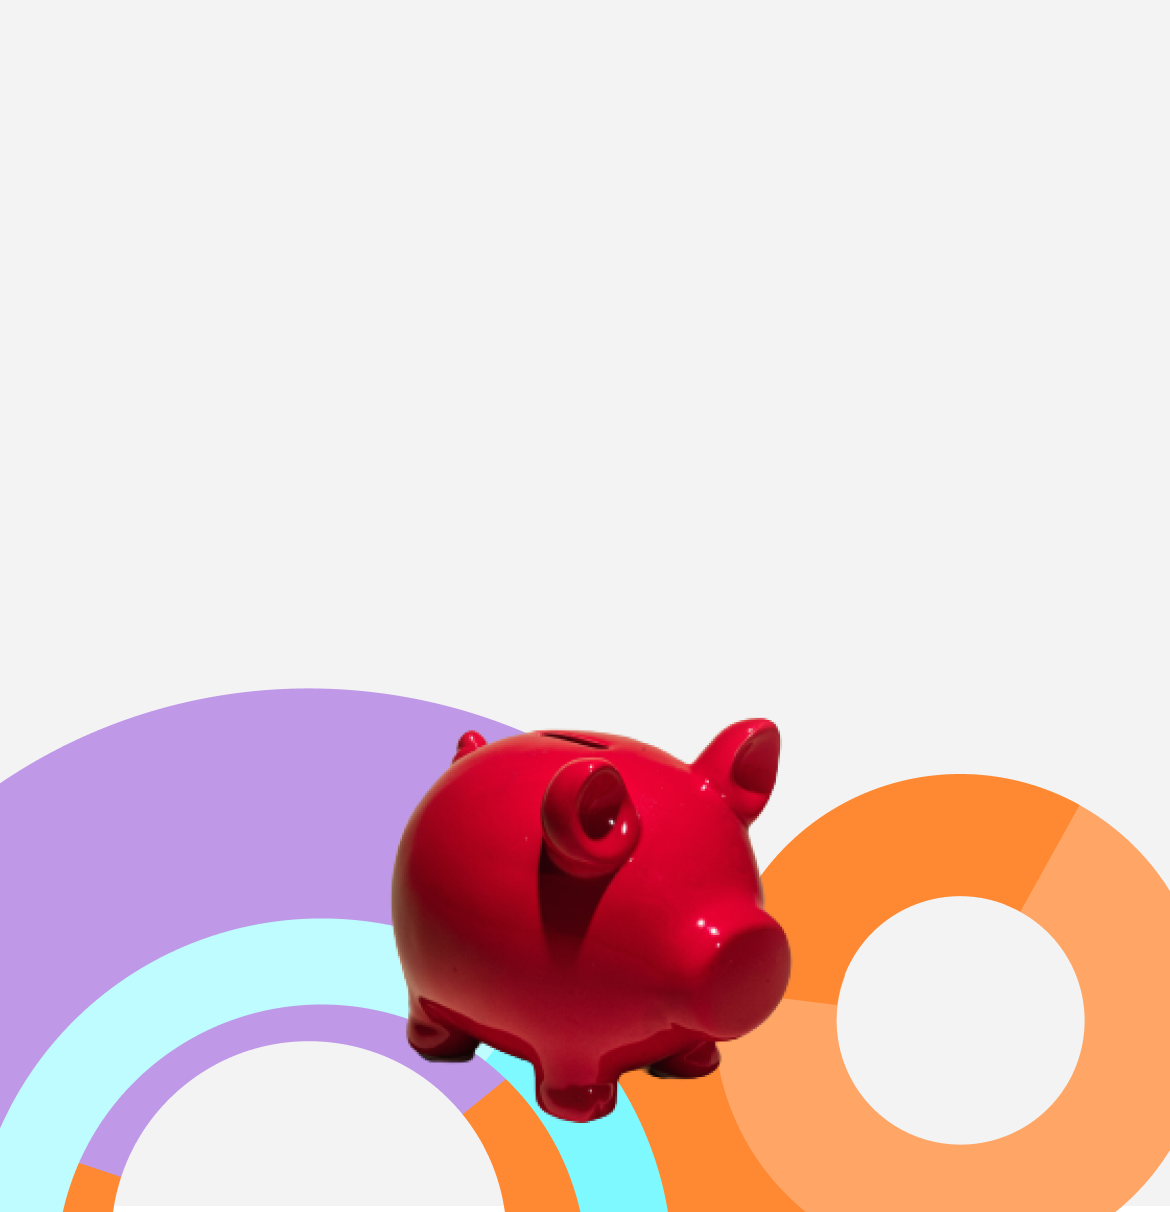
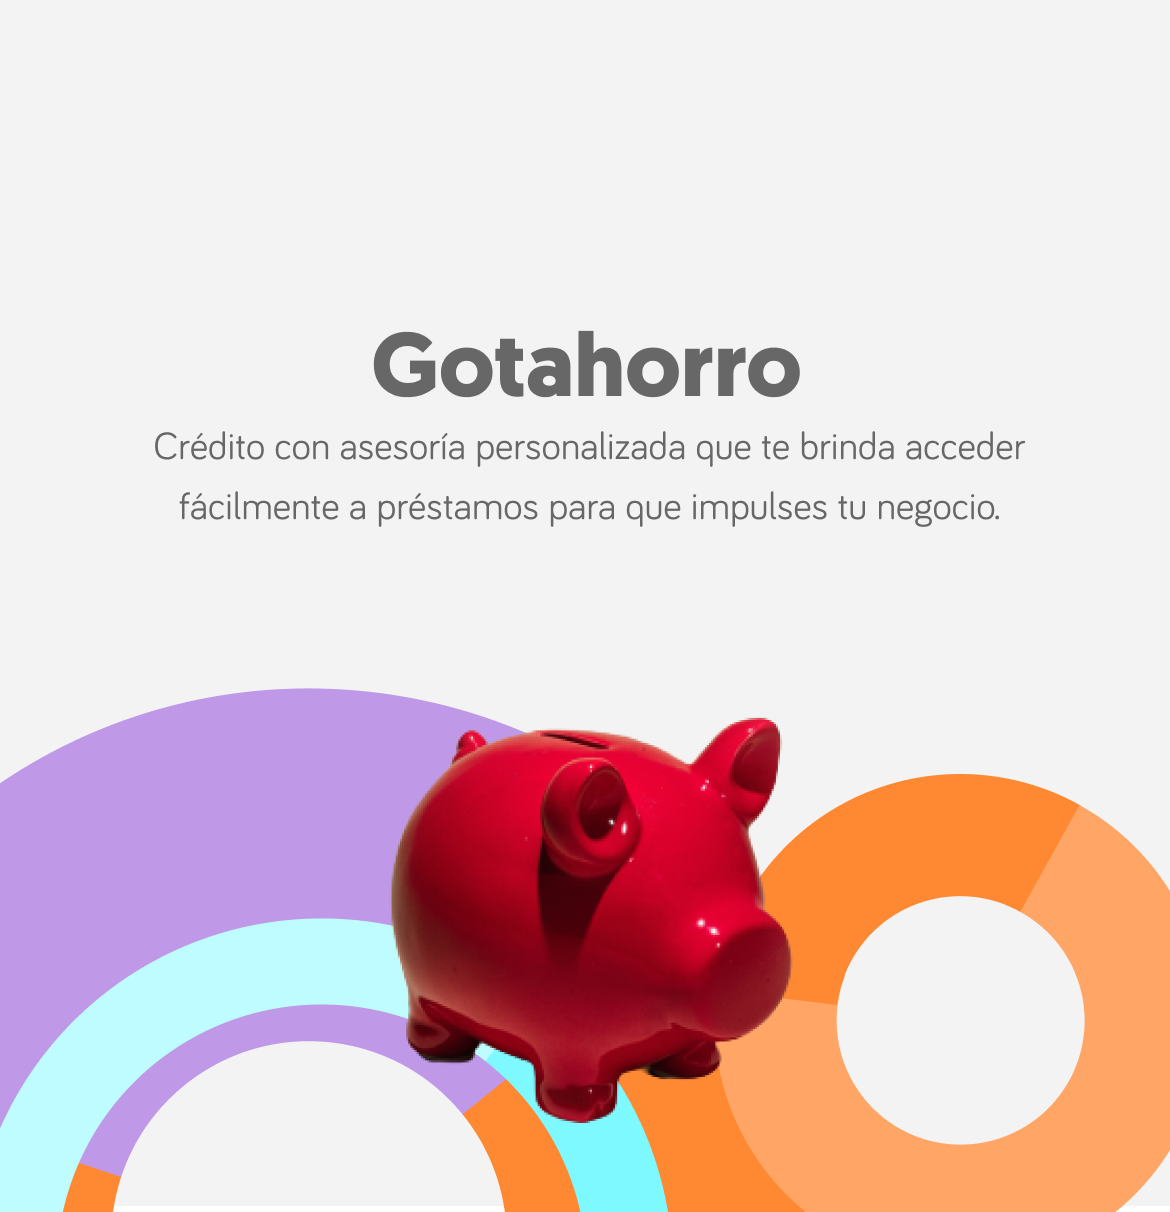
responsive gotahorro

Changed region(s): [[0.1538, 0.3663, 0.8615, 0.4274], [0.3077, 0.2748, 0.6769, 0.3358]]

diff --git a/Gotahorro/gotahorro.css b/Gotahorro/gotahorro.css
@@ -49,39 +49,16 @@ a {
   display: none;
 }
 
-.cover-page {
-  position: relative;
-  background: url(../img/gotahorromobile.png);
-  background-repeat: no-repeat;
-  background-size: cover;
+.information img {
   width: 100%;
-  height: 435px;
+  position: relative;
+  display: block;
 }
-
-.information {
-  display: flex;
-  align-items: center;
-  flex-direction: column;
-  color: #676767;
+.information2 img {
+  width: 100%;
+  position: relative;
+  display: none;
 }
-
-.information h1 {
-  font-size: 32px;
-  font-family: "Geomanist";
-  line-height: 34px;
-  text-align: center;
-  margin-bottom: 6px;
-  padding: 62px 60px 0px 60px;
-}
-
-.information p {
-  font-family: "Bariol Regular";
-  font-size: 13px;
-  text-align: center;
-  padding: 0px 65px 0px 65px;
-  line-height: 16.72px;
-}
-
 /* Estilos de la navegación secundaria */
 
 #marker {
@@ -108,7 +85,7 @@ a {
   position: relative;
   top: 58%;
   left: 50%;
-  transform: translate(-50%, 20%);
+  transform: translate(-50%, -50%);
   background-color: var(--white);
   width: 366px;
   height: 42px;
@@ -226,16 +203,13 @@ a svg {
   margin-top: 10%;
   margin-left: 4%;
 }
-.apertura {
+.apertura img {
   position: relative;
-  background: url(../img/gotahorroapertura.png);
-  background-repeat: no-repeat;
-  background-size: cover;
   width: 100%;
-  height: 250px;
-  margin-bottom: 15%;
+  margin-bottom: 5%;
   margin-top: 10%;
   margin-left: 4%;
+  display: block;
 }
 .cancelacion {
   position: relative;
@@ -402,14 +376,14 @@ a svg {
 
 /* ///////////////////////////////// 🖥 Desktop //////////////////////// */
 
-@media (min-width: 1440px) {
+@media (min-width: 1330px) {
   /* Estilos del responsive */
 
   .nav-cover {
-    position: absolute;
+    position: relative;
     top: 90%;
     left: 50%;
-    transform: translate(-50%, 50%);
+    transform: translate(-50%, -70%);
     background-color: var(--white);
     box-shadow: 5px 7px 30px rgba(159, 102, 219, 0.18);
     border-radius: 7px;
@@ -457,18 +431,16 @@ a svg {
     height: 5px;
   }
 
-  .cover-page {
-    position: relative;
-    background: url(../img/gotahorrocoverdesktop.png);
-    background-repeat: no-repeat;
-    background-size: cover;
+  .information img {
     width: 100%;
-    height: 550px;
-  }
-  .information {
+    position: relative;
     display: none;
   }
-
+  .information2 img {
+    width: 100%;
+    position: relative;
+    display: block;
+  }
   .text1 {
     position: relative;
     background: url(../img/gotahorrocaracteristicasdesktop.png);
@@ -501,6 +473,14 @@ a svg {
     margin-bottom: 5%;
     margin-top: 3%;
     margin-left: 2%;
+  }
+  .apertura img {
+    position: relative;
+    width: 100%;
+    margin-bottom: 5%;
+    margin-top: 10%;
+    margin-left: 4%;
+    display: none;
   }
   .cancelacion {
     position: relative;

diff --git a/Gotahorro/gotahorro.html b/Gotahorro/gotahorro.html
@@ -17,12 +17,15 @@
   <!-- Portada de la página -->
 
   <section class="cover-page">
-    <!-- <img src="/img/microcredito.png"alt=""> -->
     <div class="information">
-      <h1>GOTAHORRO</h1>
-      <p>Crédito con asesoría personalizada que te brinda acceder fácilmente a préstamos para que impulses tu negocio.
-      </p>
+      <img src="/img/gotahorromobile.png" alt="">
     </div>
+    <div class="information2">
+      <img src="/img/gotahorromedium.png" alt="">
+    </div>
+
+    <!-- <img src="/img/microcredito.png"alt=""> -->
+
 
     <!-- Menú de navegación de la portada de la página -->
 
@@ -92,7 +95,9 @@
           <i class="fa fa-caret-down"></i>
         </button>
         <div class="dropdown-container2">
-          <div class="apertura"></div>
+          <div class="apertura">
+            <img src="/img/gotahorroapertura.png" alt="">
+          </div>
         </div>
       </div>
       <section class="more-information">
